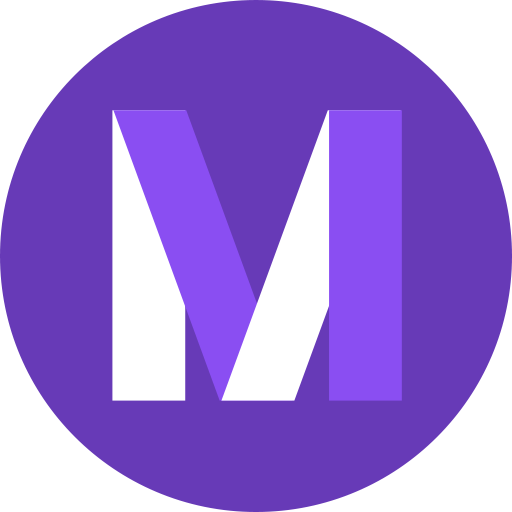
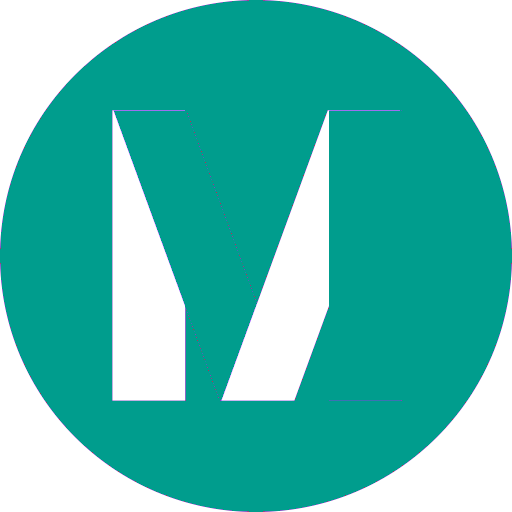
update：set app base theme and style

diff --git a/src/app/routes/sessions/login/login.component.html b/src/app/routes/sessions/login/login.component.html
@@ -6,10 +6,11 @@
       <!-- username -->
       <mat-form-field appearance="outline">
         <mat-label>{{ 'login.username' | translate }}</mat-label>
-        <input matInput placeholder="ng-matero" formControlName="username" required />
+        <input matInput placeholder="Username" formControlName="username" required />
+        <!-- 错误提示 -->
         <mat-error *ngIf="username?.invalid">
           <span *ngIf="username?.errors?.required">
-            {{ 'login.please_enter' | translate }} <strong>ng-matero</strong>
+            {{ 'login.please_enter' | translate }} <strong>Username</strong>
           </span>
           <span *ngIf="username?.errors?.remote">
             {{ username?.errors?.remote }}
@@ -21,14 +22,14 @@
         <mat-label>{{ 'login.password' | translate }}</mat-label>
         <input
           matInput
-          placeholder="ng-matero"
+          placeholder="Password"
           type="password"
           formControlName="password"
           required
         />
         <mat-error *ngIf="password?.invalid">
           <span *ngIf="password?.errors?.required">
-            {{ 'login.please_enter' | translate }}
+            {{ 'login.please_enter' | translate }} <strong>Password</strong>
           </span>
           <span *ngIf="password?.errors?.remote">
             {{ password?.errors?.remote }}
@@ -41,8 +42,7 @@
           >{{ 'login.remember_me' | translate }}
         </mat-checkbox>
       </div>
-      <span class="text-primary-500">12312323</span>
-      <!-- 确定按钮 -->
+    <!-- 确定按钮 -->
       <button
         class="w-full"
         mat-raised-button
@@ -57,7 +57,6 @@
       <div class="m-t-16">
         {{ 'login.have_no_account' | translate }}?
         <a routerLink="/auth/register" primary>{{ 'login.create_one' | translate }}</a>
-        <a routerLink="/auth/register" negative>{{ 'login.create_one' | translate }}</a>
       </div>
     </form>
   </mat-card>

diff --git a/src/styles/_themes.scss b/src/styles/_themes.scss
@@ -1,6 +1,6 @@
 @use '@angular/material' as mat;
 @use 'app-theme';
-@use '../app/theme/style//variables' as *;
+@use '../app/theme/style/variables' as *;
 
 // Define the palettes for your theme using the Material Design palettes available in palette.scss
 // (imported above). For each palette, you can optionally specify a default, lighter, and darker
@@ -9,9 +9,9 @@
 // Light style  浅色
 //
 // 定义一个调色板，参数：“默认”色调、“较浅”色调、“较深”色调和“文本”色调
-$primary: mat.define-palette($my-primary, 500);
-$accent: mat.define-palette($my-negative, 500);
-$warn: mat.define-palette(mat.$amber-palette);
+$primary: mat.define-palette($my-primary, 500); // 主色调
+$accent: mat.define-palette($my-primary, 500); // 主色调
+$warn: mat.define-palette($my-negative, 500); // 警告色调，消极色调
 $typography: mat.define-typography-config(
   $font-family: 'NotoSansSC',
   $headline: mat.define-typography-level(32px, 48px, 700),

diff --git a/src/app/theme/customizer/customizer.component.html b/src/app/theme/customizer/customizer.component.html
@@ -4,7 +4,7 @@
   cdkDrag
   (cdkDragStarted)="handleDragStart($event)"
 >
-  <button mat-fab (click)="openPanel($event)">
+  <button mat-fab (click)="openPanel($event)" color="primary">
     <mat-icon aria-label="Example icon-button with a settings icon">settings</mat-icon>
   </button>
 </div>
@@ -17,7 +17,7 @@
   </h2>
   <h3 class="f-w-400">Theme</h3>
   <div class="m-l-8">
-    <mat-radio-group [(ngModel)]="options.theme" (change)="sendOptions()">
+    <mat-radio-group [(ngModel)]="options.theme" (change)="sendOptions()" color="primary">
       <mat-radio-button class="m-r-8" [value]="'light'">Light</mat-radio-button>
       <mat-radio-button class="m-r-8" [value]="'dark'">Dark</mat-radio-button>
     </mat-radio-group>

diff --git a/src/app/theme/widgets/branding.component.ts b/src/app/theme/widgets/branding.component.ts
@@ -1,12 +1,18 @@
 import { Component } from '@angular/core';
+import { SettingsService } from '@core';
 
 @Component({
   selector: 'app-branding',
   template: `
-    <a class="matero-branding" href="/">
+    <div class="matero-branding">
       <img src="./assets/images/matero.png" class="matero-branding-logo-expanded" alt="logo" />
-      <span class="matero-branding-name">MATERO</span>
-    </a>
+      <span class="matero-branding-name fs-12">{{ title }}</span>
+    </div>
   `,
 })
-export class BrandingComponent {}
+export class BrandingComponent {
+  public title: string;
+  constructor(settingsService: SettingsService) {
+    this.title = settingsService.getAppName();
+  }
+}

diff --git a/src/app/core/authentication/login.service.ts b/src/app/core/authentication/login.service.ts
@@ -70,7 +70,7 @@ export class LoginService {
         type: 'link',
         icon: 'dashboard',
         badge: {
-          color: 'red-500',
+          color: 'negative-500',
           value: '5',
         },
       },
@@ -80,7 +80,7 @@ export class LoginService {
         type: 'sub',
         icon: 'lock',
         label: {
-          color: 'indigo-500',
+          color: 'primary-500',
           value: 'new',
         },
         children: [

diff --git a/src/app/theme/sidemenu/_sidemenu-theme.scss b/src/app/theme/sidemenu/_sidemenu-theme.scss
@@ -25,7 +25,7 @@
             if(
               $is-dark-theme,
               color.adjust(mat.get-color-from-palette($primary), $lightness: 25%),
-              mat.get-color-from-palette($accent)
+              mat.get-color-from-palette($primary)
             );
           background-color: if($is-dark-theme, rgba(mat.get-color-from-palette($primary), .15), transparent);
 

diff --git a/src/app/shared/components/page-header/page-header.component.ts b/src/app/shared/components/page-header/page-header.component.ts
@@ -6,7 +6,7 @@ import { BooleanInput, coerceBooleanProperty } from '@angular/cdk/coercion';
 @Component({
   selector: 'page-header',
   host: {
-    class: 'matero-page-header',
+    class: 'matero-page-header bg-primary-500',
   },
   templateUrl: './page-header.component.html',
   styleUrls: ['./page-header.component.scss'],

diff --git a/src/app/theme/sidemenu/sidemenu.component.html b/src/app/theme/sidemenu/sidemenu.component.html
@@ -97,7 +97,7 @@
     {{ item.label.value }}
   </span>
   <span fxFlex></span>
-  <span class="menu-badge bg-{{ item.badge.color }}" *ngIf="item.badge">
+  <span class="bg-{{ item.badge.color }} menu-badge" *ngIf="item.badge">
     {{ item.badge.value }}
   </span>
   <mat-icon class="menu-caret" *ngIf="item.type !== 'link'">

diff --git a/src/app/theme/admin-layout/admin-layout.component.html b/src/app/theme/admin-layout/admin-layout.component.html
@@ -10,7 +10,7 @@
   }"
   [dir]="options.dir!"
 >
-  <ng-progress></ng-progress>
+  <ng-progress color="#009d8d" [spinner]="false" [thick]="true"></ng-progress>
   <!-- Header"-->
   <app-header
     *ngIf="options.showHeader && options.headerPos === 'above'"

diff --git a/src/app/theme/topmenu/_topmenu-theme.scss b/src/app/theme/topmenu/_topmenu-theme.scss
@@ -20,6 +20,6 @@
   }
 
   .mat-menu-item.active {
-    color: mat.get-color-from-palette($accent);
+    color: mat.get-color-from-palette($primary);
   }
 }

diff --git a/src/app/shared/components/page-header/page-header.component.scss b/src/app/shared/components/page-header/page-header.component.scss
@@ -3,7 +3,6 @@
   margin: -16px -16px 16px;
   padding: 16px;
   color: #fff;
-  background-color: #3f51b5;
 
   .matero-breadcrumb {
     margin-top: 8px;

diff --git a/src/app/theme/style/_badge.scss b/src/app/theme/style/_badge.scss
@@ -9,6 +9,5 @@
   white-space: nowrap;
   text-align: center;
   vertical-align: baseline;
-  background-color: #757575;
   border-radius: 4px;
 }
